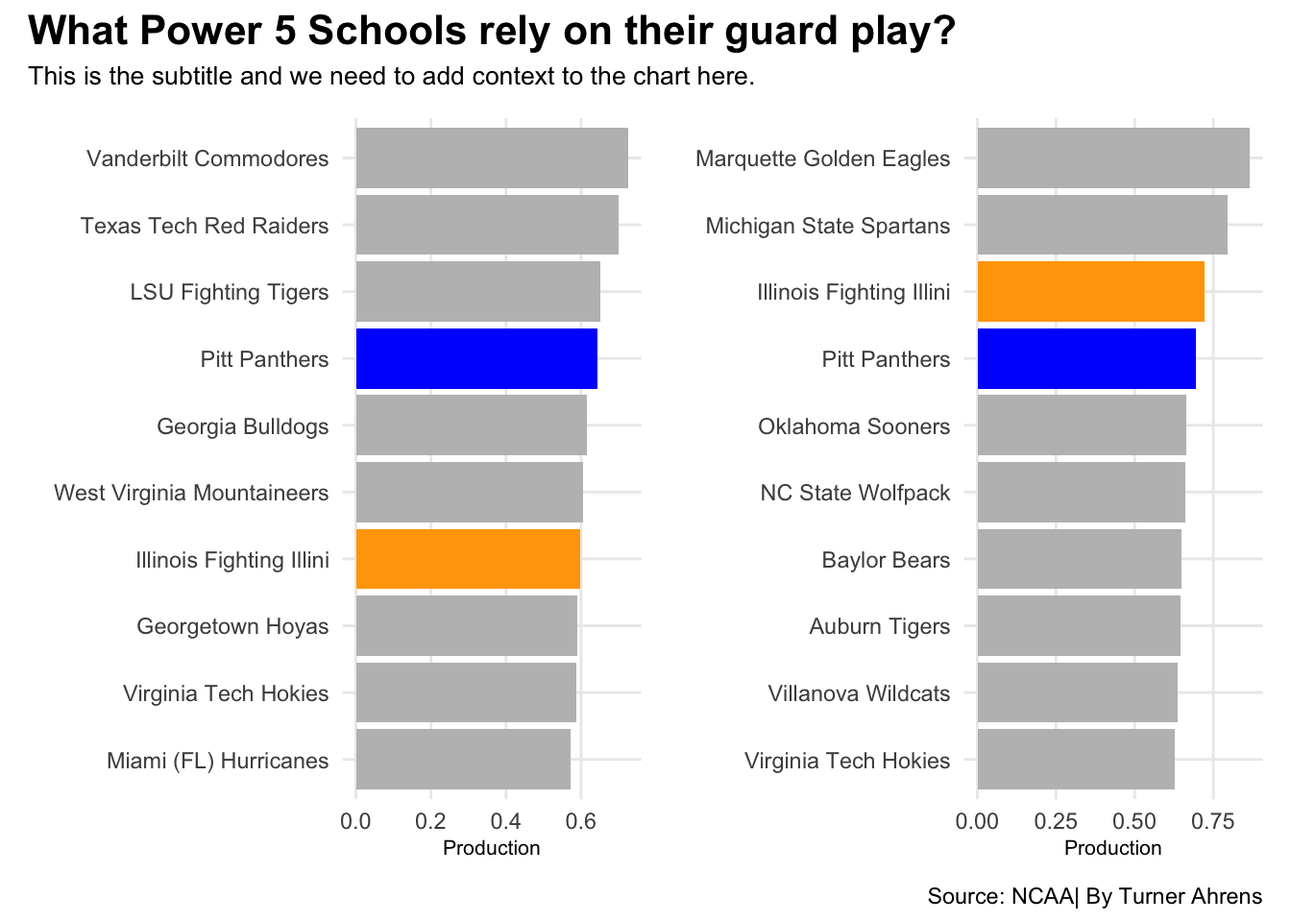
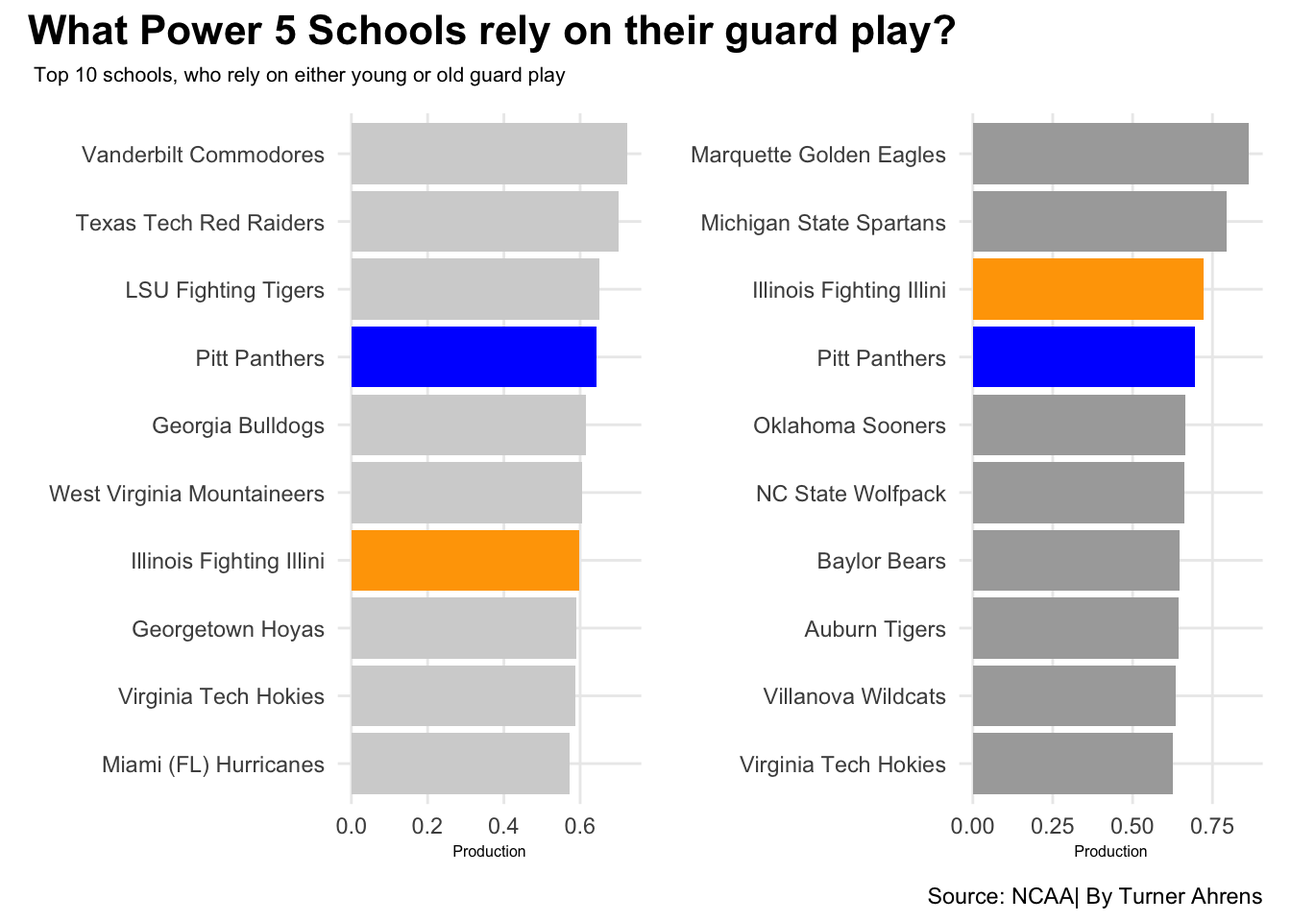
Unfin

diff --git a/posts/point-guards-and-march-madness/index.html b/posts/point-guards-and-march-madness/index.html
@@ -7,6 +7,7 @@
 <meta name="viewport" content="width=device-width, initial-scale=1.0, user-scalable=yes">
 
 <meta name="author" content="Turner Ahrens">
+<meta name="dcterms.date" content="2025-11-16">
 
 <title>Does Having an experienced Point Guard help win the games that matter? – Turner Ahrens Sports Website</title>
 <style>
@@ -155,7 +156,9 @@ pre > code.sourceCode > span > a:first-child::before { text-decoration: underlin
     <div class="quarto-title column-body">
       <h1 class="title">Does Having an experienced Point Guard help win the games that matter?</h1>
                                 <div class="quarto-categories">
-                <div class="quarto-category">lowercaseword</div>
+                <div class="quarto-category">College Basketball</div>
+                <div class="quarto-category">Point Guards</div>
+                <div class="quarto-category">Markus Howard</div>
               </div>
                   </div>
   </div>
@@ -173,7 +176,7 @@ pre > code.sourceCode > span > a:first-child::before { text-decoration: underlin
       <div>
       <div class="quarto-title-meta-heading">Published</div>
       <div class="quarto-title-meta-contents">
-        <p class="date">Invalid Date</p>
+        <p class="date">November 16, 2025</p>
       </div>
     </div>
     
@@ -192,7 +195,8 @@ pre > code.sourceCode > span > a:first-child::before { text-decoration: underlin
 
 
 
-<p>LEAD</p>
+<p>The point guard position in basketball is like the quarterback of a football team. The point guard controls the ball, controls the tempo, and is expected to control the game through all chaos. Think… you’re a coach heading in to game 40 of the season, first round of March Madness. You have a Freshmen guard who has a lot of potential and but may not be ready for the bright lights, and a veteran guard who has been in this position for the last three years. Who do you play? Coaches are very specific about who they play at their point guard, and many coaches have a preference of having a point guard with experience.</p>
+<p>By looking at our Power 5 guard statistics over the last six to ten seasons, these charts show how age and experience have an affect on the point guard position. The goal is to see whether an experienced point guard is more fit to run point over an underclassmen in games that matter.</p>
 <div class="cell">
 <details class="code-fold">
 <summary>Code</summary>
@@ -299,7 +303,7 @@ pre > code.sourceCode > span > a:first-child::before { text-decoration: underlin
 <span id="cb1-101"><a href="#cb1-101" aria-hidden="true" tabindex="-1"></a></span>
 <span id="cb1-102"><a href="#cb1-102" aria-hidden="true" tabindex="-1"></a></span>
 <span id="cb1-103"><a href="#cb1-103" aria-hidden="true" tabindex="-1"></a>bar1 <span class="ot">&lt;-</span> <span class="fu">ggplot</span>() <span class="sc">+</span> </span>
-<span id="cb1-104"><a href="#cb1-104" aria-hidden="true" tabindex="-1"></a>  <span class="fu">geom_bar</span>(<span class="at">data=</span>youngproduction, <span class="fu">aes</span>(<span class="at">x=</span><span class="fu">reorder</span>(Team, TeamProduction), <span class="at">weight=</span>TeamProduction), <span class="at">fill=</span><span class="st">"grey"</span>) <span class="sc">+</span></span>
+<span id="cb1-104"><a href="#cb1-104" aria-hidden="true" tabindex="-1"></a>  <span class="fu">geom_bar</span>(<span class="at">data=</span>youngproduction, <span class="fu">aes</span>(<span class="at">x=</span><span class="fu">reorder</span>(Team, TeamProduction), <span class="at">weight=</span>TeamProduction), <span class="at">fill=</span><span class="st">"lightgrey"</span>) <span class="sc">+</span></span>
 <span id="cb1-105"><a href="#cb1-105" aria-hidden="true" tabindex="-1"></a>  <span class="fu">geom_bar</span>(<span class="at">data=</span>pittyoung, <span class="fu">aes</span>(<span class="at">x=</span><span class="fu">reorder</span>(Team, TeamProduction), <span class="at">weight=</span>TeamProduction), <span class="at">fill=</span><span class="st">"blue"</span>) <span class="sc">+</span> </span>
 <span id="cb1-106"><a href="#cb1-106" aria-hidden="true" tabindex="-1"></a>  <span class="fu">geom_bar</span>(<span class="at">data=</span>illyoung, <span class="fu">aes</span>(<span class="at">x=</span><span class="fu">reorder</span>(Team, TeamProduction), <span class="at">weight=</span>TeamProduction), <span class="at">fill=</span><span class="st">"orange"</span>) <span class="sc">+</span></span>
 <span id="cb1-107"><a href="#cb1-107" aria-hidden="true" tabindex="-1"></a>  <span class="fu">coord_flip</span>() <span class="sc">+</span> </span>
@@ -310,7 +314,7 @@ pre > code.sourceCode > span > a:first-child::before { text-decoration: underlin
 <span id="cb1-112"><a href="#cb1-112" aria-hidden="true" tabindex="-1"></a>  <span class="fu">theme_minimal</span>() </span>
 <span id="cb1-113"><a href="#cb1-113" aria-hidden="true" tabindex="-1"></a></span>
 <span id="cb1-114"><a href="#cb1-114" aria-hidden="true" tabindex="-1"></a>bar2 <span class="ot">&lt;-</span> <span class="fu">ggplot</span>() <span class="sc">+</span> </span>
-<span id="cb1-115"><a href="#cb1-115" aria-hidden="true" tabindex="-1"></a>  <span class="fu">geom_bar</span>(<span class="at">data=</span>oldproduction, <span class="fu">aes</span>(<span class="at">x=</span><span class="fu">reorder</span>(Team, TeamProduction), <span class="at">weight=</span>TeamProduction), <span class="at">fill=</span><span class="st">"grey"</span>) <span class="sc">+</span></span>
+<span id="cb1-115"><a href="#cb1-115" aria-hidden="true" tabindex="-1"></a>  <span class="fu">geom_bar</span>(<span class="at">data=</span>oldproduction, <span class="fu">aes</span>(<span class="at">x=</span><span class="fu">reorder</span>(Team, TeamProduction), <span class="at">weight=</span>TeamProduction), <span class="at">fill=</span><span class="st">"darkgrey"</span>) <span class="sc">+</span></span>
 <span id="cb1-116"><a href="#cb1-116" aria-hidden="true" tabindex="-1"></a>  <span class="fu">geom_bar</span>(<span class="at">data=</span>pittold, <span class="fu">aes</span>(<span class="at">x=</span><span class="fu">reorder</span>(Team, TeamProduction), <span class="at">weight=</span>TeamProduction), <span class="at">fill=</span><span class="st">"blue"</span>) <span class="sc">+</span></span>
 <span id="cb1-117"><a href="#cb1-117" aria-hidden="true" tabindex="-1"></a>  <span class="fu">geom_bar</span>(<span class="at">data=</span>illold, <span class="fu">aes</span>(<span class="at">x=</span><span class="fu">reorder</span>(Team, TeamProduction), <span class="at">weight=</span>TeamProduction), <span class="at">fill=</span><span class="st">"orange"</span>) <span class="sc">+</span></span>
 <span id="cb1-118"><a href="#cb1-118" aria-hidden="true" tabindex="-1"></a>  <span class="fu">coord_flip</span>() <span class="sc">+</span>  </span>
@@ -323,13 +327,13 @@ pre > code.sourceCode > span > a:first-child::before { text-decoration: underlin
 <span id="cb1-125"><a href="#cb1-125" aria-hidden="true" tabindex="-1"></a>bar1 <span class="sc">+</span> bar2  <span class="sc">+</span> </span>
 <span id="cb1-126"><a href="#cb1-126" aria-hidden="true" tabindex="-1"></a>  <span class="fu">plot_annotation</span>(</span>
 <span id="cb1-127"><a href="#cb1-127" aria-hidden="true" tabindex="-1"></a>    <span class="at">title =</span> <span class="st">"What Power 5 Schools rely on their guard play?"</span>,</span>
-<span id="cb1-128"><a href="#cb1-128" aria-hidden="true" tabindex="-1"></a>    <span class="at">subtitle =</span> <span class="st">"This is the subtitle and we need to add context to the chart here."</span>,</span>
+<span id="cb1-128"><a href="#cb1-128" aria-hidden="true" tabindex="-1"></a>    <span class="at">subtitle =</span> <span class="st">" Top 10 schools, who rely on either young or old guard play "</span>,</span>
 <span id="cb1-129"><a href="#cb1-129" aria-hidden="true" tabindex="-1"></a>    <span class="at">caption =</span> <span class="st">"Source: NCAA| By Turner Ahrens"</span></span>
 <span id="cb1-130"><a href="#cb1-130" aria-hidden="true" tabindex="-1"></a>  ) <span class="sc">&amp;</span> </span>
 <span id="cb1-131"><a href="#cb1-131" aria-hidden="true" tabindex="-1"></a>  <span class="fu">theme</span>(</span>
 <span id="cb1-132"><a href="#cb1-132" aria-hidden="true" tabindex="-1"></a>    <span class="at">plot.title =</span> <span class="fu">element_text</span>(<span class="at">size =</span> <span class="dv">16</span>, <span class="at">face =</span> <span class="st">"bold"</span>),</span>
-<span id="cb1-133"><a href="#cb1-133" aria-hidden="true" tabindex="-1"></a>    <span class="at">axis.title =</span> <span class="fu">element_text</span>(<span class="at">size =</span> <span class="dv">8</span>), </span>
-<span id="cb1-134"><a href="#cb1-134" aria-hidden="true" tabindex="-1"></a>    <span class="at">plot.subtitle =</span> <span class="fu">element_text</span>(<span class="at">size=</span><span class="dv">10</span>), </span>
+<span id="cb1-133"><a href="#cb1-133" aria-hidden="true" tabindex="-1"></a>    <span class="at">axis.title =</span> <span class="fu">element_text</span>(<span class="at">size =</span> <span class="dv">6</span>), </span>
+<span id="cb1-134"><a href="#cb1-134" aria-hidden="true" tabindex="-1"></a>    <span class="at">plot.subtitle =</span> <span class="fu">element_text</span>(<span class="at">size=</span><span class="dv">8</span>), </span>
 <span id="cb1-135"><a href="#cb1-135" aria-hidden="true" tabindex="-1"></a>    <span class="at">panel.grid.minor =</span> <span class="fu">element_blank</span>()</span>
 <span id="cb1-136"><a href="#cb1-136" aria-hidden="true" tabindex="-1"></a>  )</span></code></pre></div><button title="Copy to Clipboard" class="code-copy-button"><i class="bi"></i></button></div>
 </details>
@@ -341,12 +345,13 @@ pre > code.sourceCode > span > a:first-child::before { text-decoration: underlin
 </div>
 </div>
 </div>
+<p>Teams like Illinois and Pittsburg show up in the top 10 for both young and old production meaning they rely heavily on their guard play, no matter the age. Marquette and Michigan State receive the most production from older guard play, which makes sense given the coaches at each university.</p>
 <div class="cell">
 <details class="code-fold">
 <summary>Code</summary>
 <div class="code-copy-outer-scaffold"><div class="sourceCode cell-code" id="cb2"><pre class="sourceCode r code-with-copy"><code class="sourceCode r"><span id="cb2-1"><a href="#cb2-1" aria-hidden="true" tabindex="-1"></a>p5 <span class="ot">&lt;-</span> <span class="fu">c</span>(<span class="st">"Big Ten"</span>, <span class="st">"ACC"</span>, <span class="st">"SEC"</span>, <span class="st">"Big 12"</span>,<span class="st">"Big East"</span>)</span>
 <span id="cb2-2"><a href="#cb2-2" aria-hidden="true" tabindex="-1"></a>player_production <span class="ot">&lt;-</span> players <span class="sc">|&gt;</span> </span>
-<span id="cb2-3"><a href="#cb2-3" aria-hidden="true" tabindex="-1"></a>  <span class="fu">filter</span>(Conference <span class="sc">%in%</span> p5) <span class="sc">|&gt;</span> </span>
+<span id="cb2-3"><a href="#cb2-3" aria-hidden="true" tabindex="-1"></a>  <span class="fu">filter</span>(Conference <span class="sc">%in%</span> p5)<span class="sc">|&gt;</span></span>
 <span id="cb2-4"><a href="#cb2-4" aria-hidden="true" tabindex="-1"></a>  <span class="fu">filter</span>(Pos <span class="sc">==</span> <span class="st">"G"</span>) <span class="sc">|&gt;</span> </span>
 <span id="cb2-5"><a href="#cb2-5" aria-hidden="true" tabindex="-1"></a>  <span class="fu">filter</span>(MP <span class="sc">&gt;</span> <span class="dv">1</span>, AST <span class="sc">&gt;</span> <span class="dv">100</span>) <span class="sc">|&gt;</span> </span>
 <span id="cb2-6"><a href="#cb2-6" aria-hidden="true" tabindex="-1"></a>  <span class="fu">mutate</span>(<span class="at">Production =</span> (PTS <span class="sc">+</span> AST) <span class="sc">/</span> MP)</span>
@@ -354,26 +359,28 @@ pre > code.sourceCode > span > a:first-child::before { text-decoration: underlin
 <span id="cb2-8"><a href="#cb2-8" aria-hidden="true" tabindex="-1"></a></span>
 <span id="cb2-9"><a href="#cb2-9" aria-hidden="true" tabindex="-1"></a>best <span class="ot">&lt;-</span> player_production <span class="sc">|&gt;</span></span>
 <span id="cb2-10"><a href="#cb2-10" aria-hidden="true" tabindex="-1"></a>  <span class="fu">filter</span>( Production <span class="sc">&gt;</span> .<span class="dv">70</span>) <span class="sc">|&gt;</span></span>
-<span id="cb2-11"><a href="#cb2-11" aria-hidden="true" tabindex="-1"></a> <span class="fu">filter</span> (MP <span class="sc">&gt;</span> <span class="dv">700</span>)</span>
-<span id="cb2-12"><a href="#cb2-12" aria-hidden="true" tabindex="-1"></a></span>
-<span id="cb2-13"><a href="#cb2-13" aria-hidden="true" tabindex="-1"></a><span class="fu">ggplot</span>() <span class="sc">+</span></span>
-<span id="cb2-14"><a href="#cb2-14" aria-hidden="true" tabindex="-1"></a>  <span class="fu">geom_point</span>(<span class="at">data=</span>player_production, <span class="fu">aes</span>(<span class="at">x =</span> MP, <span class="at">y =</span> Production, <span class="at">color =</span> Class)) <span class="sc">+</span></span>
-<span id="cb2-15"><a href="#cb2-15" aria-hidden="true" tabindex="-1"></a>   <span class="fu">geom_text_repel</span>(<span class="at">data =</span> best, <span class="fu">aes</span>(<span class="at">x =</span> MP, <span class="at">y =</span> Production, <span class="at">label =</span> Player))<span class="sc">+</span></span>
-<span id="cb2-16"><a href="#cb2-16" aria-hidden="true" tabindex="-1"></a>  <span class="fu">scale_color_manual</span>(<span class="at">values=</span><span class="fu">c</span>(<span class="st">"blue"</span>, <span class="st">"maroon"</span>,<span class="st">"lightblue"</span>, <span class="st">"red"</span> )) <span class="sc">+</span> </span>
-<span id="cb2-17"><a href="#cb2-17" aria-hidden="true" tabindex="-1"></a>  <span class="fu">labs</span>(</span>
-<span id="cb2-18"><a href="#cb2-18" aria-hidden="true" tabindex="-1"></a>    <span class="at">title =</span> <span class="st">"Do Experienced Guards Produce More in Big Games?"</span>,</span>
-<span id="cb2-19"><a href="#cb2-19" aria-hidden="true" tabindex="-1"></a>    <span class="at">subtitle =</span> <span class="st">"Production "</span>,</span>
-<span id="cb2-20"><a href="#cb2-20" aria-hidden="true" tabindex="-1"></a>    <span class="at">x =</span> <span class="st">"Minutes Played"</span>,</span>
-<span id="cb2-21"><a href="#cb2-21" aria-hidden="true" tabindex="-1"></a>    <span class="at">y =</span> <span class="st">"Production Rate"</span>,</span>
-<span id="cb2-22"><a href="#cb2-22" aria-hidden="true" tabindex="-1"></a>    <span class="at">caption =</span> <span class="st">"Source: NCAA | By Turner Ahrens"</span></span>
-<span id="cb2-23"><a href="#cb2-23" aria-hidden="true" tabindex="-1"></a>  ) <span class="sc">+</span></span>
-<span id="cb2-24"><a href="#cb2-24" aria-hidden="true" tabindex="-1"></a>  <span class="fu">theme_minimal</span>()<span class="sc">+</span></span>
-<span id="cb2-25"><a href="#cb2-25" aria-hidden="true" tabindex="-1"></a>  <span class="fu">theme</span>(</span>
-<span id="cb2-26"><a href="#cb2-26" aria-hidden="true" tabindex="-1"></a>    <span class="at">plot.title =</span> <span class="fu">element_text</span>(<span class="at">size =</span> <span class="dv">16</span>, <span class="at">face =</span> <span class="st">"bold"</span>),</span>
-<span id="cb2-27"><a href="#cb2-27" aria-hidden="true" tabindex="-1"></a>    <span class="at">axis.title =</span> <span class="fu">element_text</span>(<span class="at">size =</span> <span class="dv">8</span>), </span>
-<span id="cb2-28"><a href="#cb2-28" aria-hidden="true" tabindex="-1"></a>    <span class="at">plot.subtitle =</span> <span class="fu">element_text</span>(<span class="at">size=</span><span class="dv">10</span>), </span>
-<span id="cb2-29"><a href="#cb2-29" aria-hidden="true" tabindex="-1"></a>    <span class="at">panel.grid.minor =</span> <span class="fu">element_blank</span>()</span>
-<span id="cb2-30"><a href="#cb2-30" aria-hidden="true" tabindex="-1"></a>  )</span></code></pre></div><button title="Copy to Clipboard" class="code-copy-button"><i class="bi"></i></button></div>
+<span id="cb2-11"><a href="#cb2-11" aria-hidden="true" tabindex="-1"></a>  <span class="fu">filter</span>(Class <span class="sc">==</span> <span class="st">"JR"</span> <span class="sc">|</span> Class <span class="sc">==</span> <span class="st">"SR"</span><span class="sc">|</span> Class <span class="sc">==</span> <span class="st">"FR"</span><span class="sc">|</span> Class <span class="sc">==</span> <span class="st">"SO"</span>)<span class="sc">|&gt;</span> </span>
+<span id="cb2-12"><a href="#cb2-12" aria-hidden="true" tabindex="-1"></a> <span class="fu">filter</span> (MP <span class="sc">&gt;</span> <span class="dv">850</span>)</span>
+<span id="cb2-13"><a href="#cb2-13" aria-hidden="true" tabindex="-1"></a></span>
+<span id="cb2-14"><a href="#cb2-14" aria-hidden="true" tabindex="-1"></a></span>
+<span id="cb2-15"><a href="#cb2-15" aria-hidden="true" tabindex="-1"></a><span class="fu">ggplot</span>() <span class="sc">+</span></span>
+<span id="cb2-16"><a href="#cb2-16" aria-hidden="true" tabindex="-1"></a>  <span class="fu">geom_point</span>(<span class="at">data=</span>player_production, <span class="fu">aes</span>(<span class="at">x =</span> MP, <span class="at">y =</span> Production, <span class="at">color =</span> Class)) <span class="sc">+</span></span>
+<span id="cb2-17"><a href="#cb2-17" aria-hidden="true" tabindex="-1"></a>   <span class="fu">geom_text_repel</span>(<span class="at">data =</span> best, <span class="fu">aes</span>(<span class="at">x =</span> MP, <span class="at">y =</span> Production, <span class="at">label =</span> Player))<span class="sc">+</span></span>
+<span id="cb2-18"><a href="#cb2-18" aria-hidden="true" tabindex="-1"></a>  <span class="fu">scale_color_manual</span>(<span class="at">values=</span><span class="fu">c</span>(<span class="st">"blue"</span>, <span class="st">"maroon"</span>,<span class="st">"lightblue"</span>, <span class="st">"red"</span> )) <span class="sc">+</span> </span>
+<span id="cb2-19"><a href="#cb2-19" aria-hidden="true" tabindex="-1"></a>  <span class="fu">labs</span>(</span>
+<span id="cb2-20"><a href="#cb2-20" aria-hidden="true" tabindex="-1"></a>    <span class="at">title =</span> <span class="st">"Do Experienced Guards Produce More in Big Games?"</span>,</span>
+<span id="cb2-21"><a href="#cb2-21" aria-hidden="true" tabindex="-1"></a>    <span class="at">subtitle =</span> <span class="st">"Power 5 PG's with over 1000 minutes played and high production "</span>,</span>
+<span id="cb2-22"><a href="#cb2-22" aria-hidden="true" tabindex="-1"></a>    <span class="at">x =</span> <span class="st">"Minutes Played"</span>,</span>
+<span id="cb2-23"><a href="#cb2-23" aria-hidden="true" tabindex="-1"></a>    <span class="at">y =</span> <span class="st">"Production Rate"</span>,</span>
+<span id="cb2-24"><a href="#cb2-24" aria-hidden="true" tabindex="-1"></a>    <span class="at">caption =</span> <span class="st">"Source: NCAA | By Turner Ahrens"</span></span>
+<span id="cb2-25"><a href="#cb2-25" aria-hidden="true" tabindex="-1"></a>  ) <span class="sc">+</span></span>
+<span id="cb2-26"><a href="#cb2-26" aria-hidden="true" tabindex="-1"></a>  <span class="fu">theme_minimal</span>()<span class="sc">+</span></span>
+<span id="cb2-27"><a href="#cb2-27" aria-hidden="true" tabindex="-1"></a>  <span class="fu">theme</span>(</span>
+<span id="cb2-28"><a href="#cb2-28" aria-hidden="true" tabindex="-1"></a>    <span class="at">plot.title =</span> <span class="fu">element_text</span>(<span class="at">size =</span> <span class="dv">16</span>, <span class="at">face =</span> <span class="st">"bold"</span>),</span>
+<span id="cb2-29"><a href="#cb2-29" aria-hidden="true" tabindex="-1"></a>    <span class="at">axis.title =</span> <span class="fu">element_text</span>(<span class="at">size =</span> <span class="dv">6</span>), </span>
+<span id="cb2-30"><a href="#cb2-30" aria-hidden="true" tabindex="-1"></a>    <span class="at">plot.subtitle =</span> <span class="fu">element_text</span>(<span class="at">size=</span><span class="dv">8</span>), </span>
+<span id="cb2-31"><a href="#cb2-31" aria-hidden="true" tabindex="-1"></a>    <span class="at">panel.grid.minor =</span> <span class="fu">element_blank</span>()</span>
+<span id="cb2-32"><a href="#cb2-32" aria-hidden="true" tabindex="-1"></a>  )</span></code></pre></div><button title="Copy to Clipboard" class="code-copy-button"><i class="bi"></i></button></div>
 </details>
 <div class="cell-output-display">
 <div>
@@ -401,11 +408,11 @@ pre > code.sourceCode > span > a:first-child::before { text-decoration: underlin
 <span id="cb3-13"><a href="#cb3-13" aria-hidden="true" tabindex="-1"></a>  <span class="fu">filter</span>(Class <span class="sc">==</span> <span class="st">"JR"</span> <span class="sc">|</span> Class <span class="sc">==</span> <span class="st">"SR"</span>)</span>
 <span id="cb3-14"><a href="#cb3-14" aria-hidden="true" tabindex="-1"></a></span>
 <span id="cb3-15"><a href="#cb3-15" aria-hidden="true" tabindex="-1"></a><span class="fu">ggplot</span>() <span class="sc">+</span></span>
-<span id="cb3-16"><a href="#cb3-16" aria-hidden="true" tabindex="-1"></a>  <span class="fu">geom_boxplot</span>(<span class="at">data =</span> young_pg, <span class="fu">aes</span>(<span class="at">x =</span> <span class="st">"Younger PG"</span>, <span class="at">y =</span> TurnRatio), <span class="at">fill =</span> <span class="st">"grey"</span>) <span class="sc">+</span></span>
-<span id="cb3-17"><a href="#cb3-17" aria-hidden="true" tabindex="-1"></a>  <span class="fu">geom_boxplot</span>(<span class="at">data =</span> old_pg, <span class="fu">aes</span>(<span class="at">x =</span> <span class="st">"Older PG"</span>, <span class="at">y =</span> TurnRatio), <span class="at">fill =</span> <span class="st">"red"</span>) <span class="sc">+</span></span>
+<span id="cb3-16"><a href="#cb3-16" aria-hidden="true" tabindex="-1"></a><span class="fu">geom_boxplot</span>(<span class="at">data =</span> young_pg, <span class="fu">aes</span>(<span class="at">x =</span> <span class="st">"Younger PG"</span>, <span class="at">y =</span> TurnRatio), <span class="at">fill =</span> <span class="st">"blue"</span>) <span class="sc">+</span></span>
+<span id="cb3-17"><a href="#cb3-17" aria-hidden="true" tabindex="-1"></a>  <span class="fu">geom_boxplot</span>(<span class="at">data =</span> old_pg, <span class="fu">aes</span>(<span class="at">x =</span> <span class="st">"Older PG"</span>, <span class="at">y =</span> TurnRatio), <span class="at">fill =</span> <span class="st">"red"</span>)  <span class="sc">+</span></span>
 <span id="cb3-18"><a href="#cb3-18" aria-hidden="true" tabindex="-1"></a>  <span class="fu">labs</span>(</span>
-<span id="cb3-19"><a href="#cb3-19" aria-hidden="true" tabindex="-1"></a>    <span class="at">title =</span> <span class="st">"Do Experienced Guards Protect the Ball Better?"</span>,</span>
-<span id="cb3-20"><a href="#cb3-20" aria-hidden="true" tabindex="-1"></a>    <span class="at">subtitle =</span> <span class="st">"Assist-to-Turnover ratio among Power 5 guards (2019–2024)"</span>,</span>
+<span id="cb3-19"><a href="#cb3-19" aria-hidden="true" tabindex="-1"></a>    <span class="at">title =</span> <span class="st">"Experienced point guards protect the ball better in big games."</span>,</span>
+<span id="cb3-20"><a href="#cb3-20" aria-hidden="true" tabindex="-1"></a>    <span class="at">subtitle =</span> <span class="st">"Assist-to-Turnover ratio among Power 5 guards"</span>,</span>
 <span id="cb3-21"><a href="#cb3-21" aria-hidden="true" tabindex="-1"></a>    <span class="at">x =</span> <span class="st">""</span>,</span>
 <span id="cb3-22"><a href="#cb3-22" aria-hidden="true" tabindex="-1"></a>    <span class="at">y =</span> <span class="st">"Assist-to-Turnover Ratio"</span>,</span>
 <span id="cb3-23"><a href="#cb3-23" aria-hidden="true" tabindex="-1"></a>    <span class="at">caption =</span> <span class="st">"Source: NCAA | By Turner Ahrens"</span></span>
@@ -413,8 +420,8 @@ pre > code.sourceCode > span > a:first-child::before { text-decoration: underlin
 <span id="cb3-25"><a href="#cb3-25" aria-hidden="true" tabindex="-1"></a>  <span class="fu">theme_minimal</span>() <span class="sc">+</span></span>
 <span id="cb3-26"><a href="#cb3-26" aria-hidden="true" tabindex="-1"></a>  <span class="fu">theme</span>(</span>
 <span id="cb3-27"><a href="#cb3-27" aria-hidden="true" tabindex="-1"></a>    <span class="at">plot.title =</span> <span class="fu">element_text</span>(<span class="at">size =</span> <span class="dv">16</span>, <span class="at">face =</span> <span class="st">"bold"</span>),</span>
-<span id="cb3-28"><a href="#cb3-28" aria-hidden="true" tabindex="-1"></a>    <span class="at">axis.title =</span> <span class="fu">element_text</span>(<span class="at">size =</span> <span class="dv">8</span>), </span>
-<span id="cb3-29"><a href="#cb3-29" aria-hidden="true" tabindex="-1"></a>    <span class="at">plot.subtitle =</span> <span class="fu">element_text</span>(<span class="at">size =</span> <span class="dv">10</span>), </span>
+<span id="cb3-28"><a href="#cb3-28" aria-hidden="true" tabindex="-1"></a>    <span class="at">axis.title =</span> <span class="fu">element_text</span>(<span class="at">size =</span> <span class="dv">6</span>), </span>
+<span id="cb3-29"><a href="#cb3-29" aria-hidden="true" tabindex="-1"></a>    <span class="at">plot.subtitle =</span> <span class="fu">element_text</span>(<span class="at">size =</span> <span class="dv">8</span>), </span>
 <span id="cb3-30"><a href="#cb3-30" aria-hidden="true" tabindex="-1"></a>    <span class="at">panel.grid.minor =</span> <span class="fu">element_blank</span>()</span>
 <span id="cb3-31"><a href="#cb3-31" aria-hidden="true" tabindex="-1"></a>  )</span></code></pre></div><button title="Copy to Clipboard" class="code-copy-button"><i class="bi"></i></button></div>
 </details>

diff --git a/index.html b/index.html
@@ -195,7 +195,7 @@ window.Quarto = {
 <!-- margin-sidebar -->
     <div id="quarto-margin-sidebar" class="sidebar margin-sidebar">
         
-    <h5 class="quarto-listing-category-title">Categories</h5><div class="quarto-listing-category category-default"><div class="category" data-category="">All <span class="quarto-category-count">(1)</span></div><div class="category" data-category="bG93ZXJjYXNld29yZA==">lowercaseword <span class="quarto-category-count">(3)</span></div></div></div>
+    <h5 class="quarto-listing-category-title">Categories</h5><div class="quarto-listing-category category-default"><div class="category" data-category="">All <span class="quarto-category-count">(1)</span></div><div class="category" data-category="Q29sbGVnZSUyMEJhc2tldGJhbGw=">College Basketball <span class="quarto-category-count">(1)</span></div><div class="category" data-category="TWFya3VzJTIwSG93YXJk">Markus Howard <span class="quarto-category-count">(1)</span></div><div class="category" data-category="UG9pbnQlMjBHdWFyZHM=">Point Guards <span class="quarto-category-count">(1)</span></div></div></div>
 <!-- main -->
 <main class="content quarto-banner-title-block column-page-left" id="quarto-document-content">
 
@@ -209,7 +209,7 @@ window.Quarto = {
 
 <div class="quarto-listing quarto-listing-container-default" id="listing-listing">
 <div class="list quarto-listing-default">
-<div class="quarto-post image-right" data-index="0" data-categories="bG93ZXJjYXNld29yZCUyQ2xvd2VyY2FzZXdvcmQlMkNsb3dlcmNhc2V3b3Jk" data-listing-date-sort="NaN" data-listing-file-modified-sort="1763242843934" data-listing-date-modified-sort="NaN" data-listing-reading-time-sort="5" data-listing-word-count-sort="965">
[1 lines of base64/hex data omitted]
 <div class="thumbnail"><a href="./posts/point-guards-and-march-madness/index.html" class="no-external">
 
 <img loading="lazy" src="./posts/point-guards-and-march-madness/image.png" class="thumbnail-image">
@@ -221,21 +221,21 @@ window.Quarto = {
 </h3>
 <div class="listing-categories">
 
-<div class="listing-category" onclick="window.quartoListingCategory('bG93ZXJjYXNld29yZA=='); return false;">lowercaseword</div>
+<div class="listing-category" onclick="window.quartoListingCategory('Q29sbGVnZSUyMEJhc2tldGJhbGw='); return false;">College Basketball</div>
 
-<div class="listing-category" onclick="window.quartoListingCategory('bG93ZXJjYXNld29yZA=='); return false;">lowercaseword</div>
+<div class="listing-category" onclick="window.quartoListingCategory('UG9pbnQlMjBHdWFyZHM='); return false;">Point Guards</div>
 
-<div class="listing-category" onclick="window.quartoListingCategory('bG93ZXJjYXNld29yZA=='); return false;">lowercaseword</div>
+<div class="listing-category" onclick="window.quartoListingCategory('TWFya3VzJTIwSG93YXJk'); return false;">Markus Howard</div>
 
 </div>
 <div class="delink listing-description"><a href="./posts/point-guards-and-march-madness/index.html" class="no-external">
-LEAD
+The point guard position in basketball is like the quarterback of a football team. The point guard controls the ball, controls the tempo, and is expected to control the game…
 </a></div>
 </div>
 <div class="metadata">
 <a href="./posts/point-guards-and-march-madness/index.html" class="no-external">
 <div class="listing-date">
-Invalid Date
+Nov 16, 2025
 </div>
 <div class="listing-author">
 Turner Ahrens
